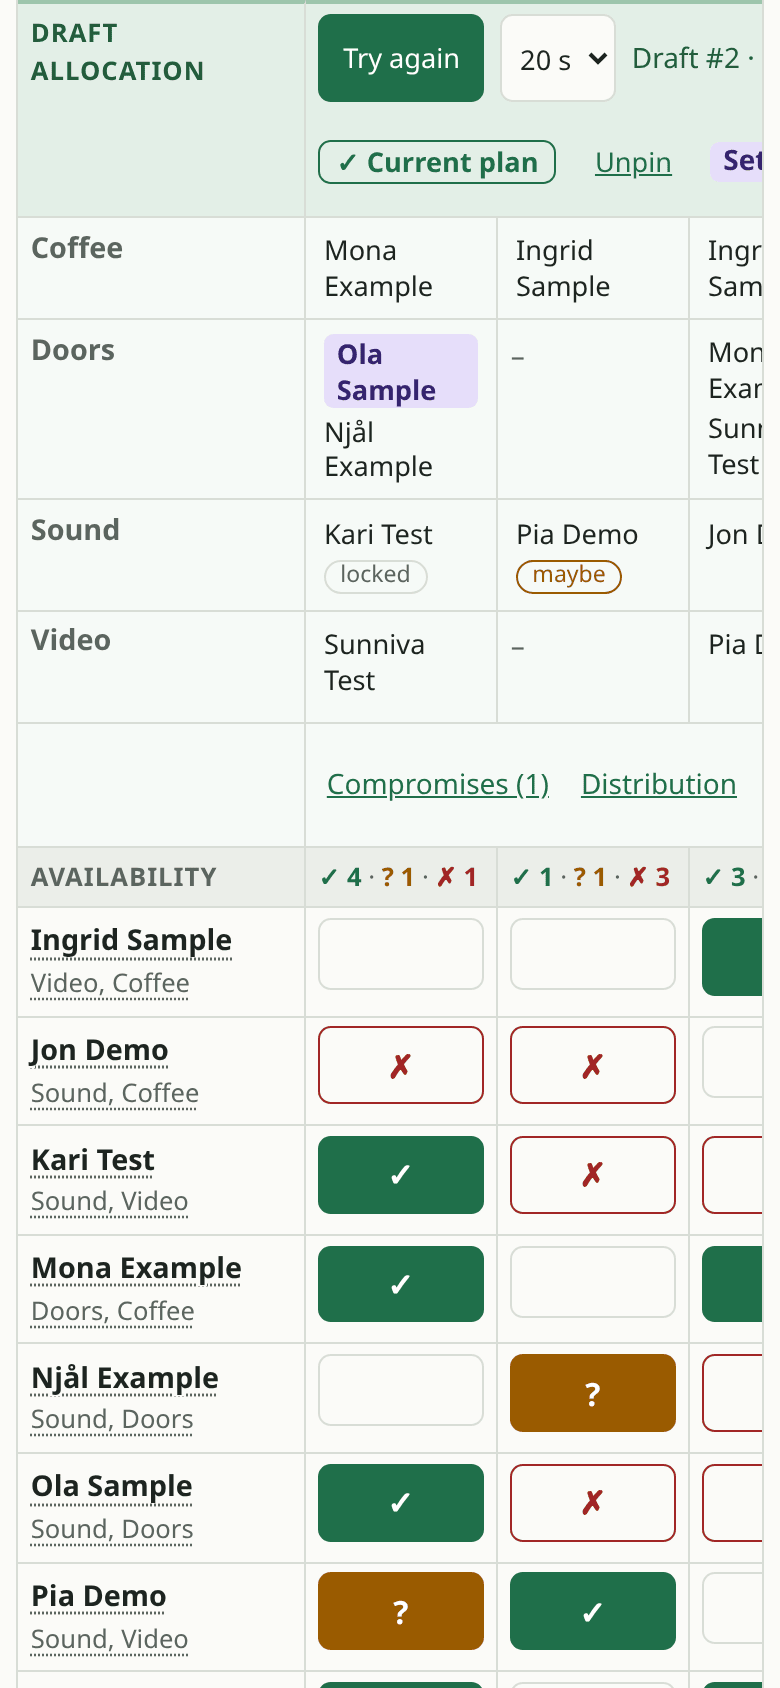
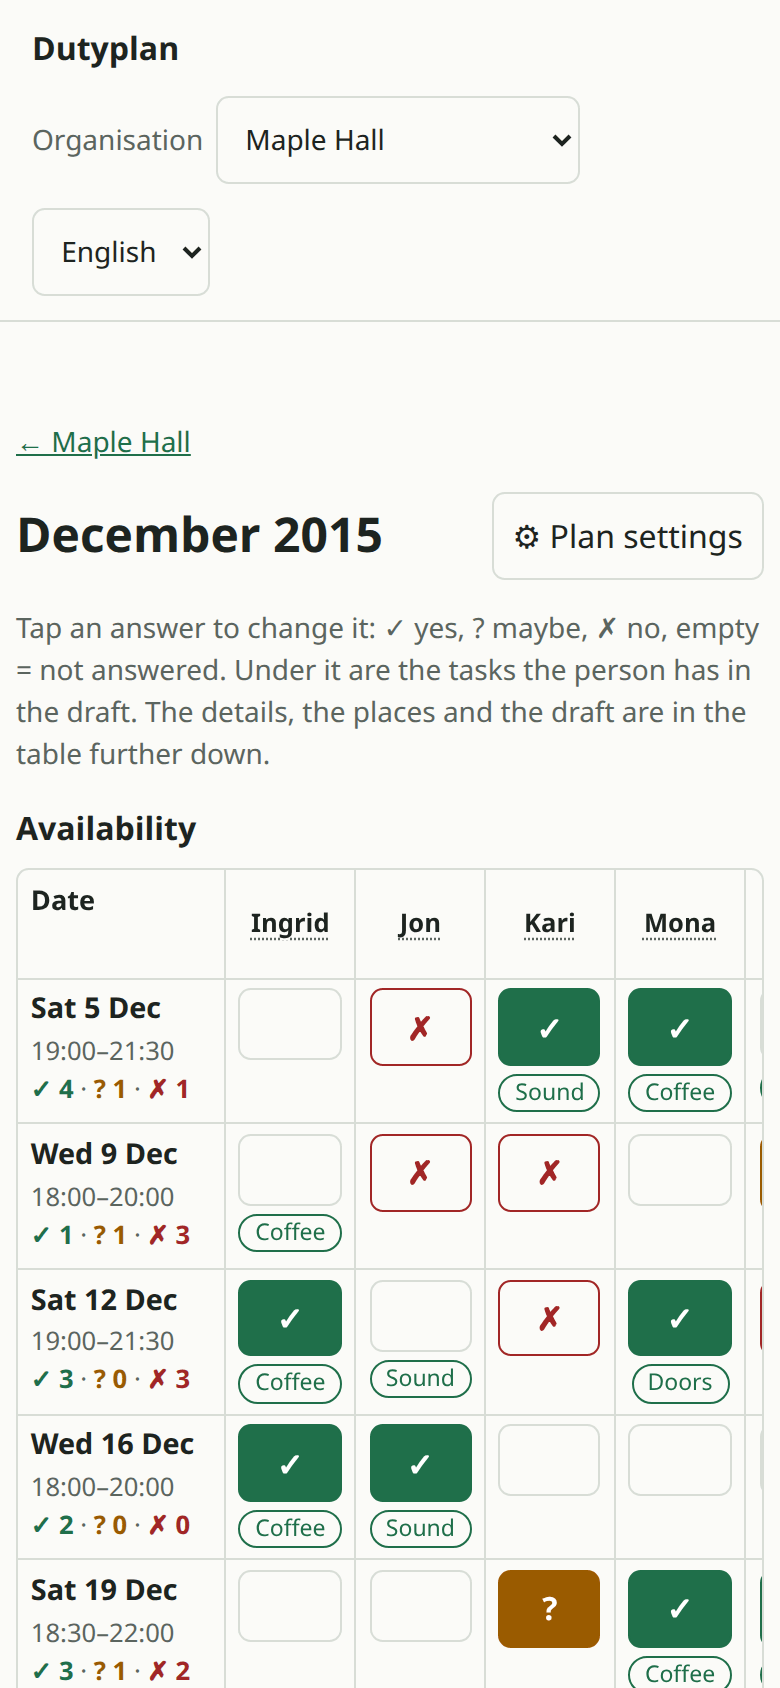
Phones: the availability turned (option A of the sketch)
On a screen up to 40rem the plan page draws Availability as its own table
above the rest: events down (date, time, the ✓/?/✗ count; the column stays
put), people across (first names, a tap opens the person), and under each
answer the tasks the person has in the draft on show, taken from the same
slots as the draft rows (set by hand, locked or proposed; through a group
too). The details, places and draft follow in the ordinary table without
the availability rows.

One layout is in the page at a time, picked with matchMedia at the same
width as the phone CSS; crossing it redraws the page. There is no «my»
column: personal links are gone.

ui-check: on a phone the answers are only in the turned table, the event
column is sticky, a tap moves the answer on and the count follows, the
locked name has its task under the answer, a name opens the person, and a
wide screen gets the ordinary table back. The phone picture shows the
turned table.

diff --git a/web/app.js b/web/app.js
@@ -344,6 +344,11 @@ function weightsForm(path, wr, saved) {
 // What the page keeps between redraws of the same plan: the draft picked under the earlier drafts.
 const planState = { key: '', runId: null };
 
+// A phone gets the availability turned (the sketch's option A, chosen 2026-11-20): events down, people across, the event column
+// stays put. The same width as the phone rule in style.css, and width only, so the keyboard coming up never redraws the page.
+const PHONE = matchMedia('(max-width: 40rem)');
+PHONE.addEventListener('change', () => { if (route().page === 'plan') render(); });
+
 async function pagePlan(r, org, people) {
   const base = `/orgs/${enc(r.org)}`;
   const pbase = `${base}/plans/${enc(r.plan)}`;
@@ -844,7 +849,7 @@ async function pagePlan(r, org, people) {
     countCells[evId].replaceChildren(h('b', { class: 'good' }, '✓ ' + c.good), ' · ', h('b', { class: 'poor' }, '? ' + c.poor), ' · ', h('b', { class: 'never' }, '✗ ' + c.never));
     countCells[evId].setAttribute('aria-label', t('table.count', c));
   };
-  const answerCell = (p, ev) => {
+  const answerCell = (p, ev, got) => {
     const b = h('button', { type: 'button', class: 'ans' });
     let busy = false;  // a second click while the first is on its way would send the same answer twice
     const paint = () => {
@@ -861,7 +866,7 @@ async function pagePlan(r, org, people) {
       busy = false;
     });
     paint();
-    return h('td', { class: 'answer' }, b);
+    return h('td', { class: 'answer' }, b, got && got.length ? h('div', { class: 'got' }, got.map((name) => h('span', { class: 'chip task' }, name))) : '');
   };
   const personRow = (p) => {
     const mine = (chosen[p.id] || []).filter((x) => x.level !== 'never' && tasks.some((tk) => tk.id === x.task_id && tk.planned)).map((x) => nameOf(tasks, x.task_id));
@@ -878,6 +883,8 @@ async function pagePlan(r, org, people) {
       view.load.length ? linkBtn(t('draft.distribution'), () => listDialog(t('draft.distribution'), view.load.map((l) => t('run.load_line', { name: l.name, count: l.count, target: l.target.toLocaleString(locale()) })))) : '',
       runs.length > 1 ? linkBtn(t('draft.earlier'), settingsDialog) : ''))) : '';
 
+  const phone = PHONE.matches;
+  const addPerson = () => addRow(t('table.new_person'), (name) => api('POST', base + '/people', { name }));
   const table = h('div', { class: 'grid-scroll' }, h('table', { class: 'dp-table' },
     h('thead', {}, head),
     h('tbody', {},
@@ -890,15 +897,41 @@ async function pagePlan(r, org, people) {
       h('tr', { class: 'sect draft' }, h('th', { scope: 'row' }, t('draft.title')), h('td', { colspan: String(cols + 1) }, bar)),
       tasks.map((tk) => h('tr', { class: 'draft-row' }, h('th', { scope: 'row' }, tk.name), events.map((ev) => putDraftCell(ev, tk)), filler())),
       draftFoot,
-      h('tr', { class: 'sect' }, h('th', { scope: 'row' }, t('table.availability')), events.map((ev) => (countCells[ev.id] = h('td', { class: 'count small' }))), filler()),
-      people.filter((p) => p.active).map(personRow), people.filter((p) => !p.active).map(personRow),
-      addLine(addRow(t('table.new_person'), (name) => api('POST', base + '/people', { name }))))));
+      phone ? '' : [
+        h('tr', { class: 'sect' }, h('th', { scope: 'row' }, t('table.availability')), events.map((ev) => (countCells[ev.id] = h('td', { class: 'count small' }))), filler()),
+        people.filter((p) => p.active).map(personRow), people.filter((p) => !p.active).map(personRow),
+        addLine(addPerson())])));
+
+  // On a phone: the availability turned, above the rest of the table. Under each answer, the tasks the person has in the draft
+  // (as the draft rows show them: set by hand, locked or from the planner; through a group too).
+  const firstName = (p) => p.name.split(/\s+/)[0];
+  const shortName = (p) => (people.some((o) => o.id !== p.id && firstName(o) === firstName(p)) ? firstName(p) + ' ' + p.name.split(/\s+/).pop()[0] + '.' : firstName(p));
+  const turned = () => {
+    const got = {};  // 'event/person' -> the names of the tasks they have in the draft
+    for (const ev of events) for (const tk of tasks) for (const x of slotsAt(ev, tk).items) {
+      const ids = x.kind === 'person' ? [x.id] : x.kind === 'group' ? (groups.find((g) => g.id === x.id) || { members: [] }).members : [];
+      ids.forEach((id) => (got[ev.id + '/' + id] ||= []).push(tk.name));
+    }
+    const cols = [...people.filter((p) => p.active), ...people.filter((p) => !p.active)];
+    const faded = (p, el) => { if (!p.active) el.classList.add('inactive'); return el; };
+    return h('section', { class: 'turned-wrap' },
+      h('h2', {}, t('table.availability')),
+      h('div', { class: 'grid-scroll' }, h('table', { class: 'dp-table turned' },
+        h('thead', {}, h('tr', {}, h('th', { scope: 'col', class: 'corner' }, t('table.date')),
+          cols.map((p) => faded(p, h('th', { scope: 'col' }, h('button', { type: 'button', class: 'cellbtn', title: p.name, 'aria-label': t('table.person_aria', { name: p.name }), onclick: () => personDialog(p) }, shortName(p))))))),
+        h('tbody', {}, events.map((ev) => h('tr', {},
+          h('th', { scope: 'row' }, h('b', {}, fmtShortDate(ev.date)), clock(ev) ? h('span', { class: 'sub' }, clock(ev)) : '', (countCells[ev.id] = h('span', { class: 'sub count' }))),
+          cols.map((p) => faded(p, answerCell(p, ev, got[ev.id + '/' + p.id])))))))),
+      addPerson());
+  };
+  const availability = phone ? turned() : '';
   events.forEach((ev) => recount(ev.id));
 
   const root = h('div', { class: 'plan-page' },
     h('p', { class: 'small' }, link(`/o/${enc(r.org)}`, t('common.back', { name: org.name }))),
     h('div', { class: 'title-bar' }, h('h1', {}, plan.name), h('button', { type: 'button', class: 'ghost', onclick: settingsDialog }, '⚙ ' + t('settings.open'))),
-    h('p', { class: 'muted small' }, events.length ? t('table.hint') : t('table.no_events')),
+    h('p', { class: 'muted small' }, events.length ? t(phone ? 'table.hint_phone' : 'table.hint') : t('table.no_events')),
+    availability,
     table);
   root.shown = () => reopened({
     task: (id) => { const x = tasks.find((tk) => tk.id === id); if (x) taskDialog(x); },

diff --git a/scripts/ui-check.js b/scripts/ui-check.js
@@ -308,15 +308,32 @@ const { spawn } = require('child_process');
       const w = await page.evaluate(() => [document.documentElement.scrollWidth, document.documentElement.clientWidth]);
       ok(w[0] <= w[1], `the page ${url} is ${w[0]} px wide on a ${w[1]} px screen (scrolls sideways)`);
     }
+    // the availability is turned (events down, people across) above the rest; the answers are only there
+    await page.waitForSelector('.dp-table.turned');
+    ok((await page.locator('.dp-table.turned button.ans').count()) === 9 && (await page.locator('button.ans').count()) === 9, 'on a phone the answers are in the turned table only');
+    ok((await page.locator('.dp-table.turned th[scope=row]').first().evaluate((e) => getComputedStyle(e).position)) === 'sticky', 'the event column stays put');
     const stuck = await page.evaluate(() => {
-      const box = document.querySelector('.grid-scroll');
-      const th = document.querySelector('button[aria-label="Open Kari Test"]').closest('th');
+      const box = document.querySelectorAll('.grid-scroll')[1];
+      const th = box.querySelector('tbody th[scope=row]');
       const x0 = th.getBoundingClientRect().left;
       box.scrollLeft = 300;
       return [box.scrollLeft > 0, Math.abs(th.getBoundingClientRect().left - x0) < 1];
     });
-    ok(stuck[0] && stuck[1], 'the table scrolls sideways and the names stay put: ' + stuck);
+    ok(stuck[0] && stuck[1], 'the rest of the table scrolls sideways and the row names stay put: ' + stuck);
+    const gotAt = (person, e) => answer(person, e).locator('xpath=..').locator('.got').innerText().catch(() => '');
+    ok((await gotAt(lockedName, ev[0])).includes('Sound'), 'under the answer: the task the person has in the draft (the locked name)');
+    const countOf = (e) => page.locator('.dp-table.turned tbody tr', { has: answer('Jon Demo', e) }).locator('.count').getAttribute('aria-label');
+    const before0 = await answer('Jon Demo', ev[0]).getAttribute('data-level');
+    const count0 = await countOf(ev[0]);
+    await answer('Jon Demo', ev[0]).click();
+    const next0 = { none: 'good', good: 'poor', poor: 'never', never: 'none' }[before0];
+    await until(page, ([x, l]) => document.querySelector(`button.ans[aria-label^="${x}:"]`).dataset.level === l, ['Jon Demo, ' + ev[0], next0], 'a tap moves the answer on');
+    ok((await countOf(ev[0])) !== count0, 'the count of the event follows: ' + count0 + ' -> ' + (await countOf(ev[0])));
+    await page.click('button[aria-label="Open Kari Test"]');
+    ok((await dialog.locator('h2').innerText()) === 'Kari Test', 'a person’s name at the top opens the person');
+    await closeDialog();
     await page.setViewportSize({ width: 1280, height: 900 });
+    await until(page, () => !document.querySelector('.dp-table.turned') && document.querySelectorAll('.dp-table button.ans').length === 9, null, 'a wide screen gets the table with people as rows again');
 
     // --- Norwegian: the switch, what the server writes, the errors ---
     await page.goto(base + '/o/sports-club');

diff --git a/web/style.css b/web/style.css
@@ -126,17 +126,26 @@ button.draftbtn:hover { border-color: var(--line); }
 .slot.open { color: var(--muted); font-style: italic; }
 
 /* availability */
-td.count { white-space: nowrap; }
-td.count .good { color: var(--accent); }
-td.count .poor { color: var(--warn); }
-td.count .never { color: var(--err); }
+.count { white-space: nowrap; }
+.count .good { color: var(--accent); }
+.count .poor { color: var(--warn); }
+.count .never { color: var(--err); }
 td.answer { text-align: center; }
 button.ans { width: 100%; min-height: 2.25rem; background: transparent; color: var(--fg); border-color: var(--line); font-weight: 700; }
 button.ans[data-level="good"] { background: var(--accent); border-color: var(--accent); color: #fff; }
 button.ans[data-level="poor"] { background: var(--warn); border-color: var(--warn); color: #fff; }
 button.ans[data-level="never"] { background: transparent; border-color: var(--err); color: var(--err); }
 @media (prefers-color-scheme: dark) { button.ans[data-level="good"], button.ans[data-level="poor"] { color: #0b1a12; } }
-.dp-table tr.inactive th, .dp-table tr.inactive td { opacity: .6; }
+.dp-table tr.inactive th, .dp-table tr.inactive td, .dp-table.turned .inactive { opacity: .6; }
+
+/* A phone: the availability turned (option A), events down and people across; the event column stays put, people scroll sideways. */
+.turned-wrap h2 { margin: .75rem 0 .25rem; font-size: 1rem; }
+.dp-table.turned th[scope=row] { min-width: 6.5rem; max-width: 7.5rem; }
+.dp-table.turned thead th, .dp-table.turned td { min-width: 3.75rem; max-width: 5.5rem; text-align: center; }
+.dp-table.turned thead th.corner { text-align: left; }
+.dp-table.turned thead .cellbtn { font-size: .8rem; text-align: center; overflow-wrap: anywhere; }
+.dp-table.turned .got { display: flex; flex-wrap: wrap; justify-content: center; gap: .15rem; margin-top: .25rem; }
+span.chip.task { border-color: var(--accent); color: var(--accent); }
 
 /* ---- dialogs ---- */
 dialog.modal { width: min(36rem, calc(100% - 1.5rem)); max-height: calc(100% - 2rem); border: 1px solid var(--line); border-radius: .6rem; background: var(--bg); color: var(--fg); padding: 1rem; }

diff --git a/web/i18n.js b/web/i18n.js
@@ -165,6 +165,7 @@ const MESSAGES = {
     'common.save': 'Save',
 
     'table.hint': 'Read a column from the top: what the event is, what it needs, who got it, who can come. Click an answer to change it: ✓ yes, ? maybe, ✗ no, empty = not answered.',
+    'table.hint_phone': 'Tap an answer to change it: ✓ yes, ? maybe, ✗ no, empty = not answered. Under it are the tasks the person has in the draft. The details, the places and the draft are in the table further down.',
     'table.no_events': 'No events yet: add one with + at the end of the date row.',
     'table.date': 'Date',
     'table.tasks': 'Tasks',
@@ -533,6 +534,7 @@ const MESSAGES = {
     'common.save': 'Lagre',
 
     'table.hint': 'Les en kolonne ovenfra: hva hendelsen er, hva den trenger, hvem som fikk den, hvem som kan komme. Klikk på et svar for å endre det: ✓ ja, ? kanskje, ✗ nei, tomt = ikke svart.',
+    'table.hint_phone': 'Trykk på et svar for å endre det: ✓ ja, ? kanskje, ✗ nei, tomt = ikke svart. Under står oppgavene personen har i utkastet. Detaljene, plassene og utkastet er i tabellen lenger ned.',
     'table.no_events': 'Ingen hendelser ennå: legg til en med + på slutten av datoraden.',
     'table.date': 'Dato',
     'table.tasks': 'Oppgaver',

diff --git a/scripts/shots.js b/scripts/shots.js
@@ -229,10 +229,9 @@ const CHOICES = {
     await save(tall, '11-settings', dialog(tall));
     await closeDialog(tall);
 
-    // On a phone the table scrolls sideways under the names.
+    // On a phone the availability is turned: events down, people across, with each person's tasks in the draft under the answer.
     const phone = await open(await context({ viewport: { width: 390, height: 844 }, isMobile: true, hasTouch: true }));
-    await go(phone, planPath, '.dp-table');
-    await phone.locator('.dp-table tr.sect.draft').evaluate((e) => e.scrollIntoView());
+    await go(phone, planPath, '.dp-table.turned');
     await phone.screenshot({ path: path.join(OUT, '14-phone.png') });
 
     const nb = await open(await context({ viewport: { width: 1280, height: 900 } }, 'nb'));

diff --git a/CLAUDE.md b/CLAUDE.md
@@ -57,6 +57,9 @@ starts the Python planner, turns the answer into a view with explanations), `int
   *Tasks* (the places per event, typed into the cells; empty = not needed), the green *Draft allocation* (the run on show merged with what is set by hand), and
   *Availability* (a count per event and one row per person). Clicking a date, task, person, row ✎ or draft place opens its dialog; ⚙ *Plan settings* has the name, the
   weighting, the earlier drafts (Show/Pin) and Delete. Do not add separate pages for these again.
+  - **On a phone** (the sketch's option A, chosen 2026-11-20): the same page with *Availability* turned and moved above the rest: events down, people across
+    (first names; the event column stays put), the person's tasks in the draft under each answer. The rest of the table follows, sideways-scrolling. One layout is
+    in the page at a time (`PHONE` in `web/app.js`, the same 40rem as the phone rule in `style.css`); there is no «my» column and no list of one's own.
   - **No day types.** Each event has its own places (`event_task`); in the planner's input every event is its own type. Events are copied instead (`POST .../events/{id}/copy`:
     dates or weekly until, with times, details, places and names set by hand as chosen; answers and drafts are never copied).
   - **The draft:** a place set by hand (a manual cell that is not locked) has a violet background; a planner name that was locked is a cell with `locked` and shows a

diff --git a/PLAN.md b/PLAN.md
@@ -224,6 +224,10 @@ what the event is, what it needs, who got it, who can come.
 - **Availability**: per event how many said ✓, ? and ✗; then one row per person (`GET /plans/{plan}/answers` loads everyone's): blank = not answered, a click cycles
   ✓ → ? → ✗ → blank. Clicking the name: tasks and levels, rename, active, can be proposed.
 - **⚙ Plan settings**: the name, the weighting, the earlier drafts (Show, Pin) and Delete.
+- **On a phone** (option A of the sketch, chosen 2026-11-20): *Availability* is turned and comes first: events down (date, time, the count), people across (first
+  names, a tap on one opens the person), and under each answer the tasks the person has in the draft (set by hand, locked or proposed; through a group too). The
+  details, places and the draft follow in the ordinary table, which scrolls sideways under the row names. The page draws one layout at a time and switches when
+  the width crosses 40rem.
 - The organisation page has the plans and the groups, and rename/delete of the organisation. Any other address (an old setup page, an old personal
   link) is "Page not found".
 

diff --git a/README.md b/README.md
@@ -89,9 +89,11 @@ by the planner for the tasks you choose; the members are busy together, and each
 ![A group: its members, and the tasks the planner may propose it for](docs/img/02-group.png)
 
 **English and Norwegian, on a phone.** The page follows the browser's language and has a switch in the header; the
-explanations the planner writes follow it too. On a narrow screen the table scrolls sideways under the names.
+explanations the planner writes follow it too. On a phone the availability is turned: events go down and people across, so a
+tap answers, and under each answer are the tasks that person has in the draft. The rest of the table follows below it and scrolls
+sideways under the row names.
 
-![The plan on a phone](docs/img/14-phone.png)
+![The plan on a phone: the availability turned, events down and people across](docs/img/14-phone.png)
 ![The same plan in Norwegian](docs/img/15-norwegian.png)
 
 **Small to run.** One Go binary with the web page inside it and a SQLite file; the planner is a separate Python program that the
